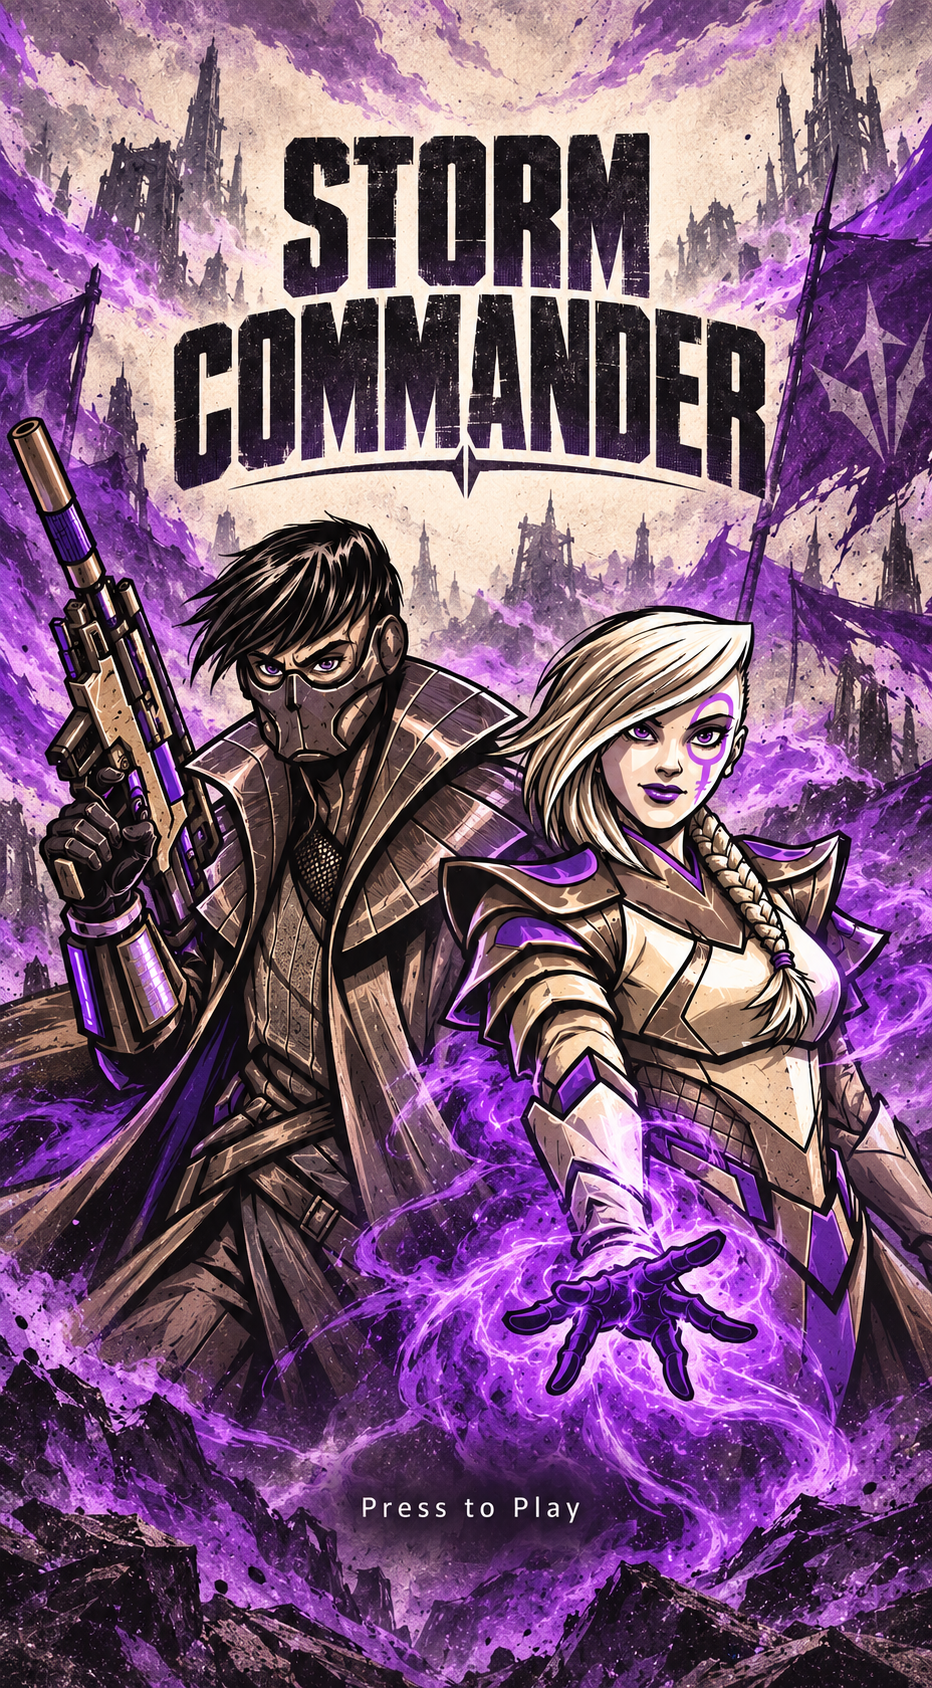
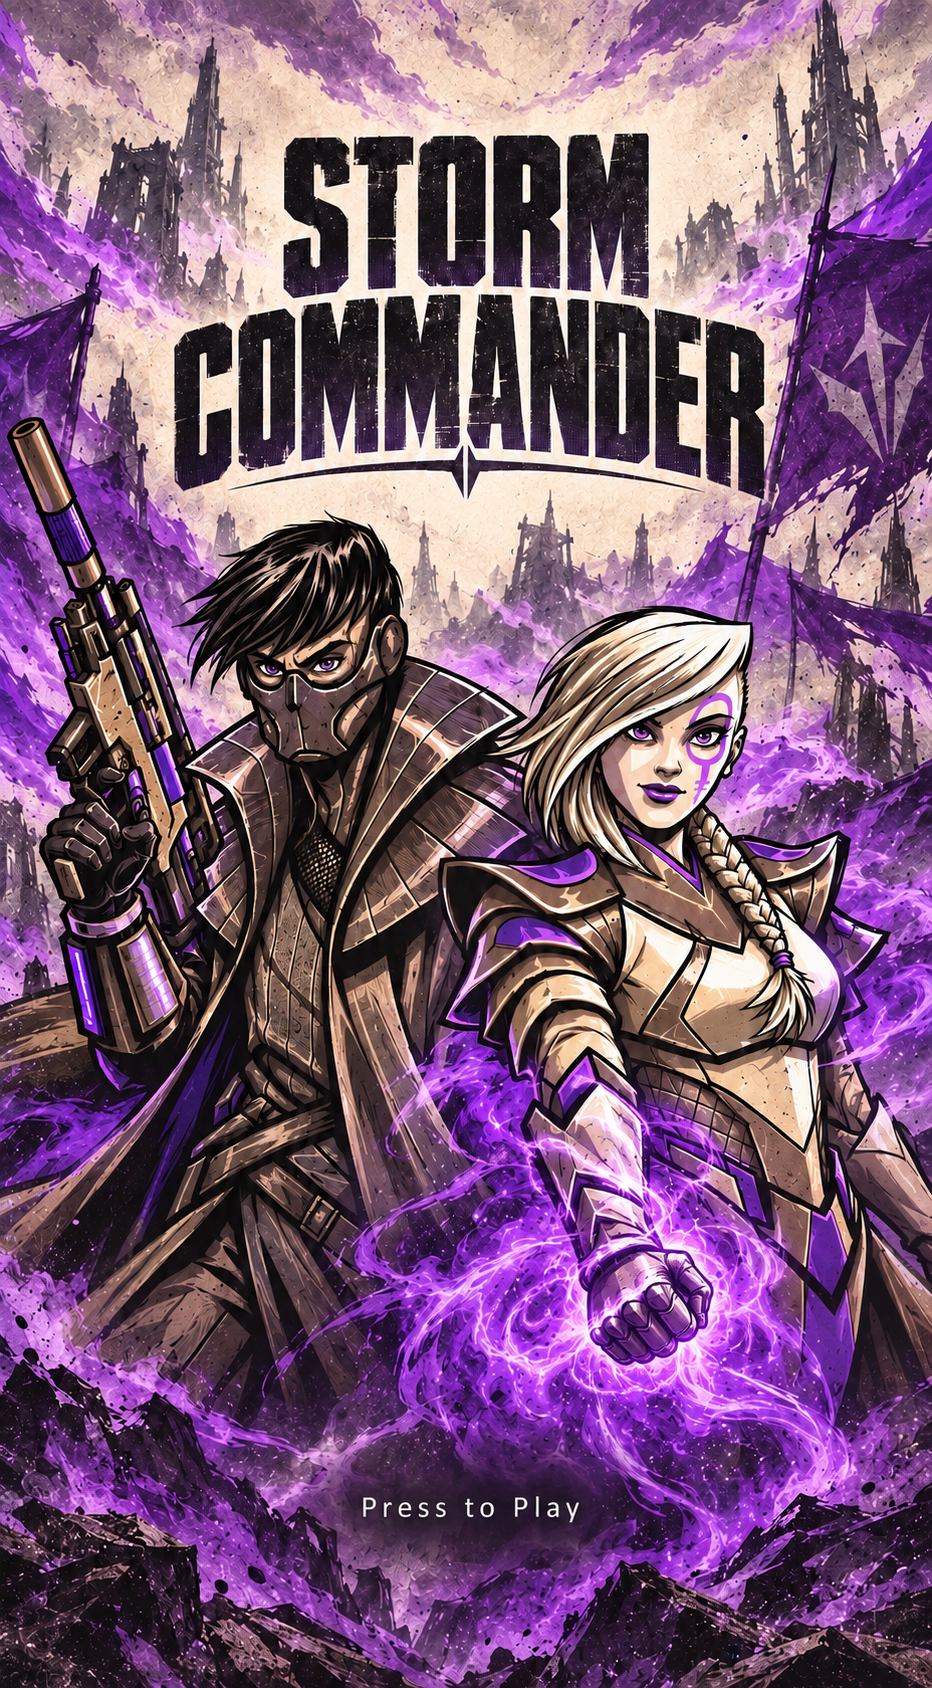
Use portrait title art on iPhone and prepare TestFlight build 8

diff --git a/ReactSource/src/pages/StartPage.jsx b/ReactSource/src/pages/StartPage.jsx
@@ -23,14 +23,19 @@ export function StartPage({ onPlay }) {
   return (
     <main className={`start-page${launchUnlockAt ? ' is-launching' : ''}`} aria-label="Start menu">
       {SCREENS.map((screen, index) => (
-        <img
-          key={screen}
-          className={`start-title-art${index === activeScreen ? ' is-active' : ''}`}
-          src={`${import.meta.env.BASE_URL}assets/storm-commander/title-screens/${screen}.png`}
-          alt=""
-          aria-hidden="true"
-          draggable="false"
-        />
+        <picture key={screen}>
+          <source
+            media="(max-width: 600px) and (orientation: portrait)"
+            srcSet={`${import.meta.env.BASE_URL}assets/storm-commander/title-screens/portrait/${screen}.png`}
+          />
+          <img
+            className={`start-title-art${index === activeScreen ? ' is-active' : ''}`}
+            src={`${import.meta.env.BASE_URL}assets/storm-commander/title-screens/${screen}.png`}
+            alt=""
+            aria-hidden="true"
+            draggable="false"
+          />
+        </picture>
       ))}
       <button type="button" className="start-play-button" disabled={Boolean(launchUnlockAt)} onClick={() => { primeGameAudio(); setLaunchUnlockAt(Date.now() + 2000) }}>
         <span className="start-accessible-label">Press to Play</span>

diff --git a/ReactSource/src/styles.css b/ReactSource/src/styles.css
@@ -431,3 +431,9 @@ button {
   transition: opacity 600ms linear;
 }
 .start-page.is-launching::after { opacity: 1; }
+
+
+/* Phone compositions keep both commanders and lettering within the crop-safe area. */
+@media (max-width: 600px) and (orientation: portrait) {
+  .start-title-art { object-fit: cover; }
+}

diff --git a/output/commander-art-v1/PORTRAIT-PROMPTS.md b/output/commander-art-v1/PORTRAIT-PROMPTS.md
@@ -17,3 +17,7 @@ Use case: identity-preserve. EDIT TARGET: attached approved landscape Storm Comm
 ## purple-rebels
 
 Use case: identity-preserve. EDIT TARGET: attached approved landscape Storm Commander title screen. Create its polished iPhone PORTRAIT counterpart, a tall 9:19.5 full-bleed composition (approximately 1080x2340). Recompose the scene vertically rather than cropping or placing the wide image inside a phone. Preserve BOTH canonical commanders' likenesses, face shapes, hair, clothing, emblems, exact faction palette, inked graphic-novel/cel-shaded distressed print art style. purple Rebel faction: Lance Rosenthorn (dark hair, rigid respirator mask covering lower face, tall collar) and Thalia Mott (white swept hair and braid, purple eye marking). Retain violet flags, mist and energy. Two equally prominent waist-up commanders, comfortably within the middle 30–81% of the canvas, faces unobscured and complete. Stagger or gently overlap their shoulders to fit the narrow format; only these two characters. Bold original condensed industrial title centered at the top on TWO stacked lines reading exactly "STORM" then "COMMANDER", kept inside x=10–90% and y=13–27% for notch safety. Small single-line "Press to Play" centered at y=86%, much smaller than title, clearly legible, no button box. Only those words. Keep all faces and lettering within central 80% of width; upper 10% and lower 10% are atmospheric background bleed to support taller and shorter iPhones. Fill every edge with artwork, no letterbox, no phone/device frame, no UI widgets, no added people, no green palette, no new costume designs. This is a production game start-screen image, not a mockup photograph.
+
+## Purple hand correction
+
+Replaced the female commander’s splayed foreground hand with an anatomically coherent armored fist surrounded by luminous violet magical aura, swirling smoke, and sparks. Preserved the portrait composition, commander likenesses, lettering, and palette. Applied to the runtime purple portrait before iOS build 8.

diff --git a/ReactSource/README.md b/ReactSource/README.md
@@ -24,7 +24,7 @@ npm.cmd run test
 - A faction-colored turn notice reads “Your move commander!” or “Enemy is moving!”. It sits below the board on desktop; on touch layouts it blinks over the board and hides when you touch the game area, reappearing on the next turn.
 - `Mission` reopens detailed objectives. `Back` returns to the title screen. After a win or loss, `Next Mission` starts another random match and a fresh radio exchange.
 - Other chess modes and the character roster are hidden from navigation; their components and scenario importer remain available for future development.
-- Portrait screens preserve the full landscape title artwork with letterboxing. Reduced-motion preferences disable the crossfade and sliding animations while retaining the sequence.
+- Upright phones up to 600 CSS pixels wide use dedicated full-screen portrait title illustrations; rotation and wider screens use the original landscape art. Reduced-motion preferences disable the crossfade and sliding animations while retaining the sequence.
 
 Opening dialogue is in `src/storm-commander/comms/openingRadio.js`: three objective-specific variants for each of the four mission types, plus ten enemy taunts. The encounter ID fixes the choice throughout a match.
 

diff --git a/WORKLOG_SO_FAR.md b/WORKLOG_SO_FAR.md
@@ -125,3 +125,10 @@ Use `npm.cmd run dev` for manual browser playtesting.
 - Added a 600ms black fade after Play and blocked radio tap/keyboard dismissal until two seconds after that initial press.
 - Synced the Capacitor wrapper and incremented iOS version 1.01 to build 7.
 - All 121 tests pass, including transition timing and turn notice behavior.
+
+## 2026-09-28 — iPhone Portrait Title Art
+
+- Added four dedicated portrait compositions retaining both faction commanders and the small Press to Play prompt, with Orange/Pirates first. Corrected the purple commander’s foreground hand to an armored fist surrounded by magical aura.
+- Phones up to 600 CSS pixels wide select portrait artwork; rotating to landscape restores the original wide composition. Preserved three-second crossfades and the launch/radio input guard.
+- Saved artwork and generation notes in the repository; synced Capacitor and advanced iOS version 1.01 to build 8.
+- Validation: all 121 tests, lint, and production build pass. Browser checks passed at 375×667, 393×852, and 430×932 for all four images, rotation, and Play/radio flow. Native iPhone 17 simulator build and launch passed; title and prompt clear the system safe areas.
